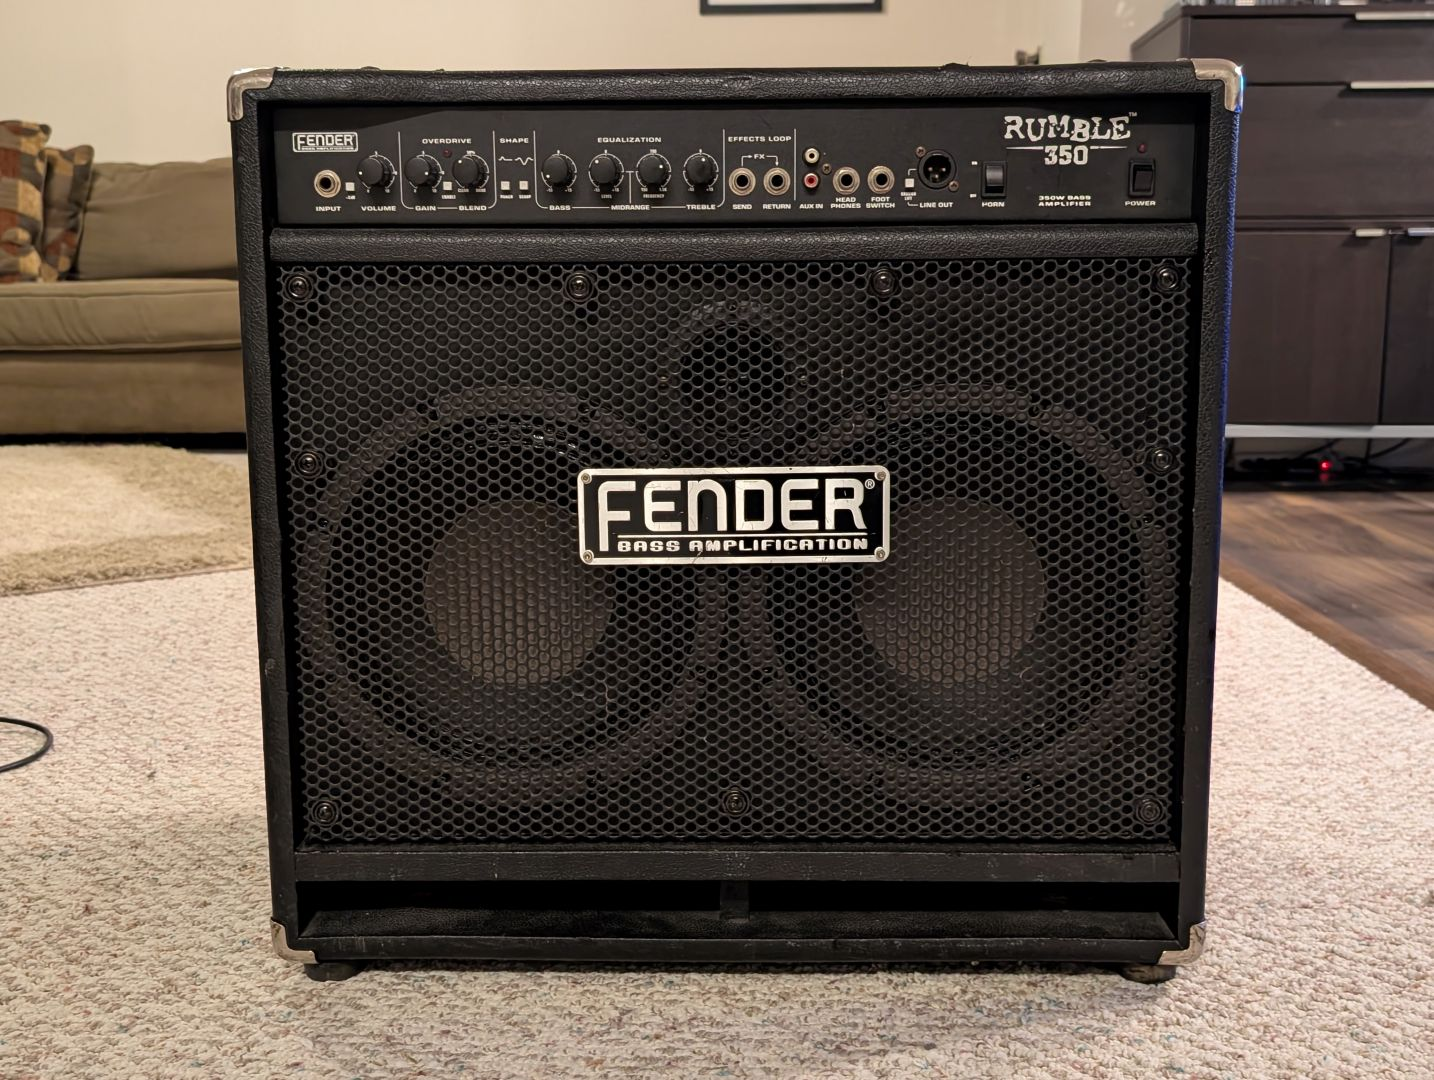
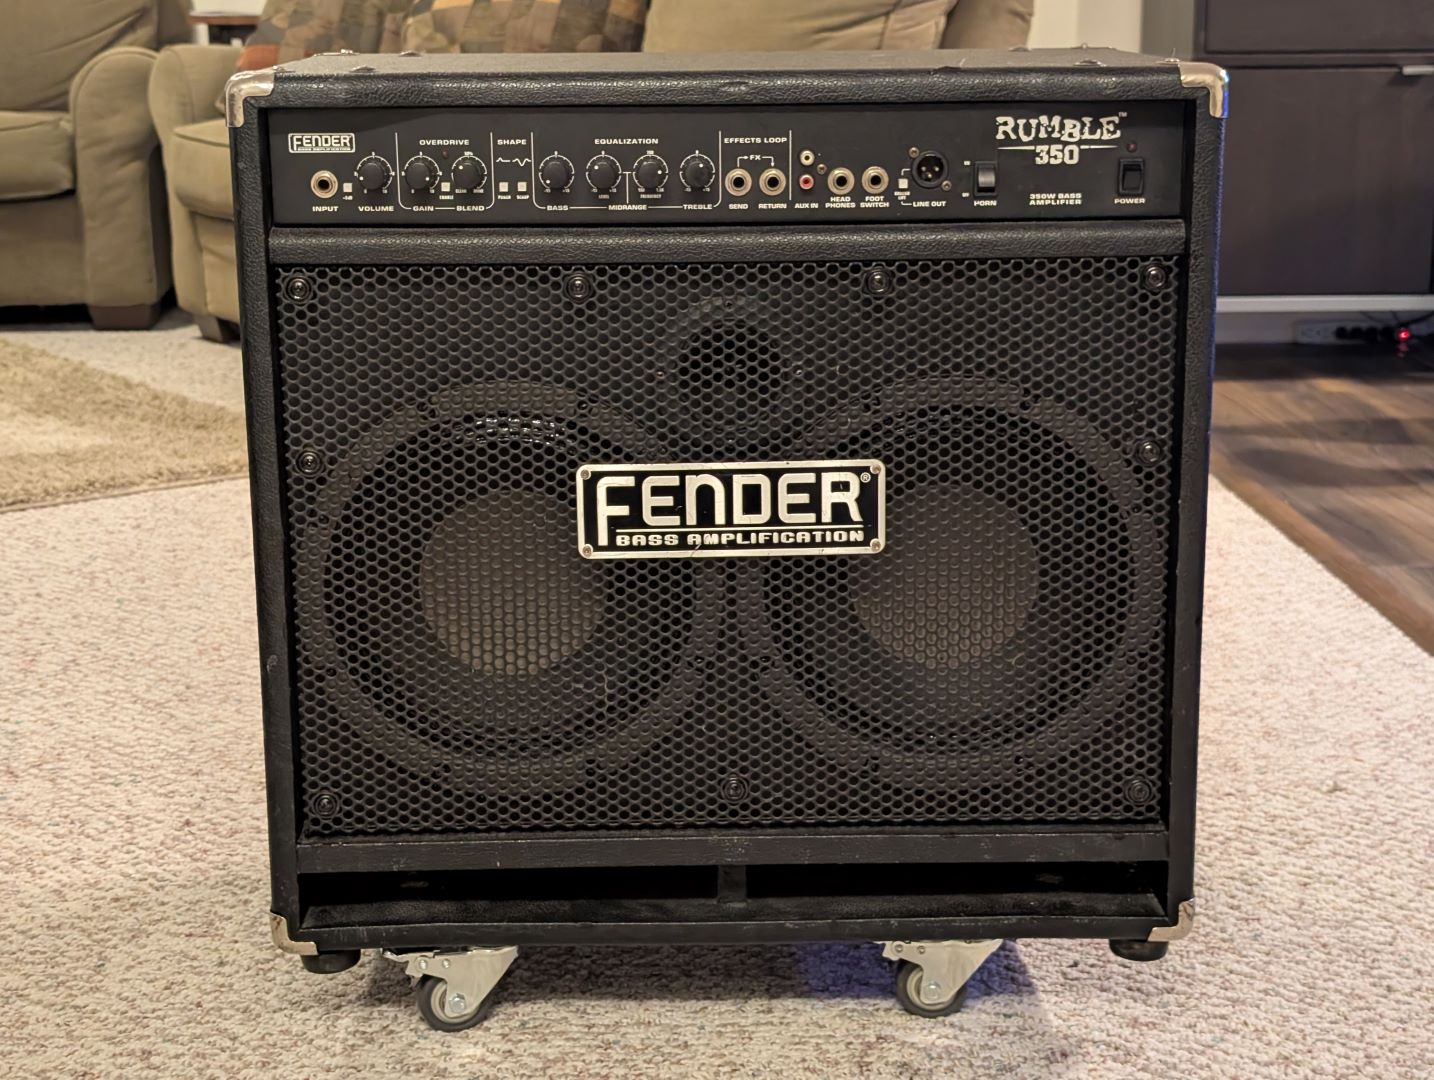
Update projects and repairs

diff --git a/index.html b/index.html
@@ -1938,13 +1938,13 @@
                 <h3 class="subsection-title" id="repairs-projects">Projects & Repairs</h3>
                 <div class="card-grid gear-grid">
                     <article class="card showcase-card">
-                        <button class="photo photo-gallery-trigger" type="button" aria-label="View photos of Guitar Hero Les Paul" data-gallery-id="guitarhero" data-gallery-title="Guitar Hero Les Paul">
-                            <img src="assets/images/guitarhero-full.jpg" alt="">
+                        <button class="photo photo-gallery-trigger" type="button" aria-label="View photos of Sanni Cart Reader" data-gallery-id="sanni" data-gallery-title="Sanni Cart Reader">
+                            <img src="assets/images/sanni-full.jpg" alt="Sanni Cart Reader">
                             <span class="photo-gallery-hint" aria-hidden="true">View 4 photos</span>
                         </button>
                         <div class="showcase-details">
-                            <h4>PS3 Guitar Hero Les Paul</h4>
-                            <h5>Completed: 11/2025</h5>
+                            <h4>Sanni Cart Reader</h4>
+                            <h5>Completed: ??/2024</h5>
                             <p></p>
                         </div>
                     </article>
@@ -2845,6 +2845,17 @@
         const mobileNavigation = window.matchMedia('(max-width: 760px)');
         const photoGalleries = {
             //Projects & Repairs
+            sanni: [
+                { src: 'assets/images/sanni-full.jpg', caption: 'Full view of Sanni Cart Reader.'},
+                { src: 'assets/images/sanni-top.jpg', caption: 'Top view of Sanni Cart Reader.'}
+            ],
+            guitarhero: [
+                { src: 'assets/images/guitarhero-full.jpg', caption: 'Full view of Guitar Hero controller.'},
+                { src: 'assets/images/guitarhero-inside.jpg', caption: 'Inside view of Guitar Hero controller.'},
+                { src: 'assets/images/guitarhero-inside-port.jpg', caption: 'Close-up of Guitar Hero controller body port. It has been replaced with an RS-232 serial port.' },
+                { src: 'assets/images/guitarhero-neck-port.jpg', caption: 'Close-up of Guitar Hero controller neck port. It has been replaced with an RS-232 serial port.' },
+                { src: 'assets/images/guitarhero-usb.jpg', caption: 'Close-up of Guitar Hero controller USB port. This was installed in place of its original unused RJ11 port. Its mount is 3d-printed.' }
+            ],
             tmb100: [
                 { src: 'assets/images/tmb100-before.jpg', caption: 'Ibanez TMB100 before repair. Its dual-concentric knob shafts are broken off and the neck is missing tuners.' },
                 { src: 'assets/images/tmb100-wiring.jpg', caption: 'Custom J Bass style wiring. This layout ditches the active-preamp for a more traditional wiring with Alpha potentiometers.' },
@@ -2857,6 +2868,8 @@
             ],
             rumble350: [
                 { src: 'assets/images/rumble350-full.jpg', caption: 'Full view of functioning amp.' },
+                { src: 'assets/images/rumble350-back.jpg', caption: 'Back view of amp. Its vinyl covering has been meticulously reglued.' },
+                { src: 'assets/images/rumble350-castors.jpg', caption: 'Close-up of new castors. These ones are more durable than the originals and can lock.' }
             ],
             jBass: [
                 { src: 'assets/images/j-bass-before.jpg', caption: 'Squire J Bass before repair. It is missing tuners and its mis-matching, cross-threaded screws are not a pretty sight. Its potentiometers are also wired incorrectly.' },
